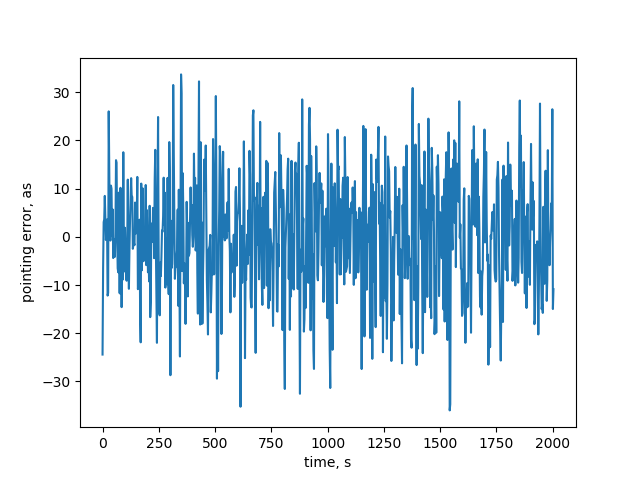
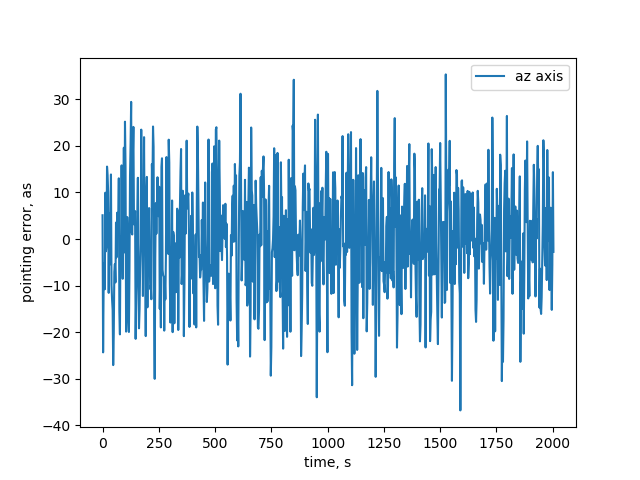
Add loglog power spectra

diff --git a/pointing_error_models/time_series.py b/pointing_error_models/time_series.py
@@ -12,19 +12,19 @@ if not os.path.isdir(plotdir):
 
 # inspect psds
 plt.subplot(221)
-plt.semilogx(psd[:,0], psd[:,1],label = 'S_az(f)')
+plt.loglog(psd[:,0], psd[:,1],label = 'S_az(f)')
 plt.ylabel('as^2/Hz')
 plt.legend()
 plt.subplot(222)
-plt.semilogx(psd[:,0], psd[:,2],label = 'S_el(f)')
+plt.loglog(psd[:,0], psd[:,2],label = 'S_el(f)')
 plt.legend()
 plt.subplot(223)
-plt.semilogx(psd[:,0], psd[:,3], label = 'S_pxel(f)')
+plt.loglog(psd[:,0], psd[:,3], label = 'S_pxel(f)')
 plt.ylabel('as^2/Hz')
 plt.xlabel('f, Hz')
 plt.legend()
 plt.subplot(224)
-plt.semilogx(psd[:,0], psd[:,4],label = 'S_pel(f)')
+plt.loglog(psd[:,0], psd[:,4],label = 'S_pel(f)')
 plt.legend()
 plt.xlabel('f, Hz')
 plt.savefig(plotdir+'power_spectra.png')
@@ -142,18 +142,18 @@ for axis in axes:
 
     # plot results
     plt.clf()
-    plt.plot( times, np.real(ts))
+    plt.plot( times, np.real(ts), label = '%s axis'%axis)
     plt.xlabel('time, s')
     plt.ylabel('pointing error, as')
+    plt.legend()
     plt.savefig(plotdir+'time_series_%s.png'%axis)
     
     # check fft returns original PSD (amplitudes plotted again)
     ts.real/=np.float(N)
     fft =  np.fft.fft(ts)
     plt.clf()
-    plt.scatter(np.arange(len(fft)), np.absolute(fft)) 
+    plt.scatter(np.arange(len(fft)), np.absolute(fft), label = '%s axis'%axis) 
     plt.xlabel('mode')
     plt.ylabel('amplitude, as/SQRT(Hz)')
-
-
+    plt.legend()
     plt.savefig(plotdir+'check_FFT_%s.png'%axis)
